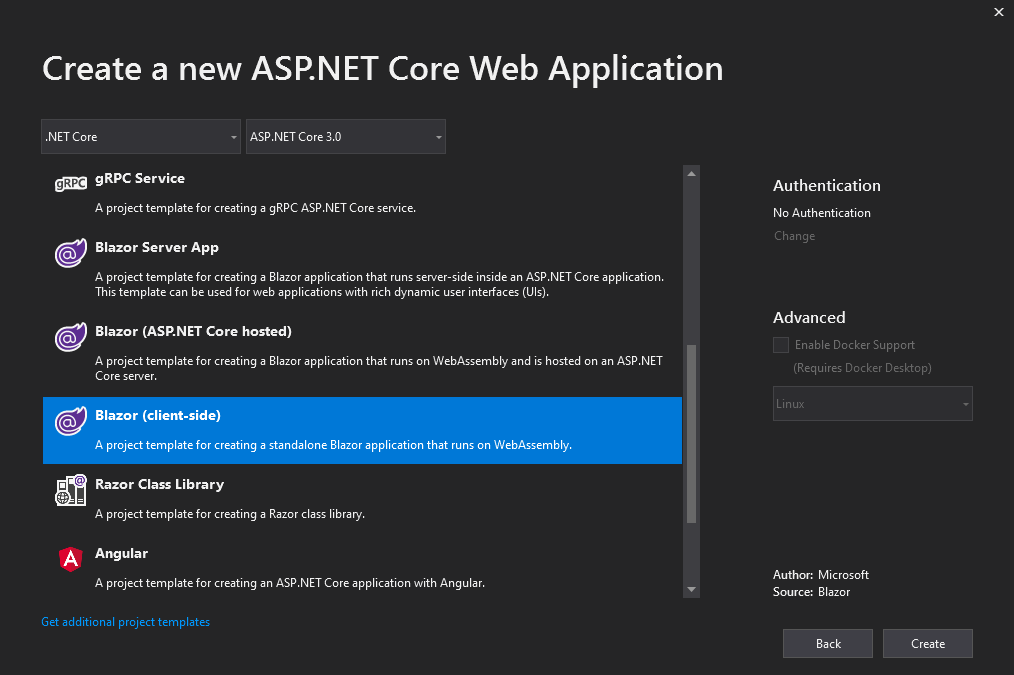
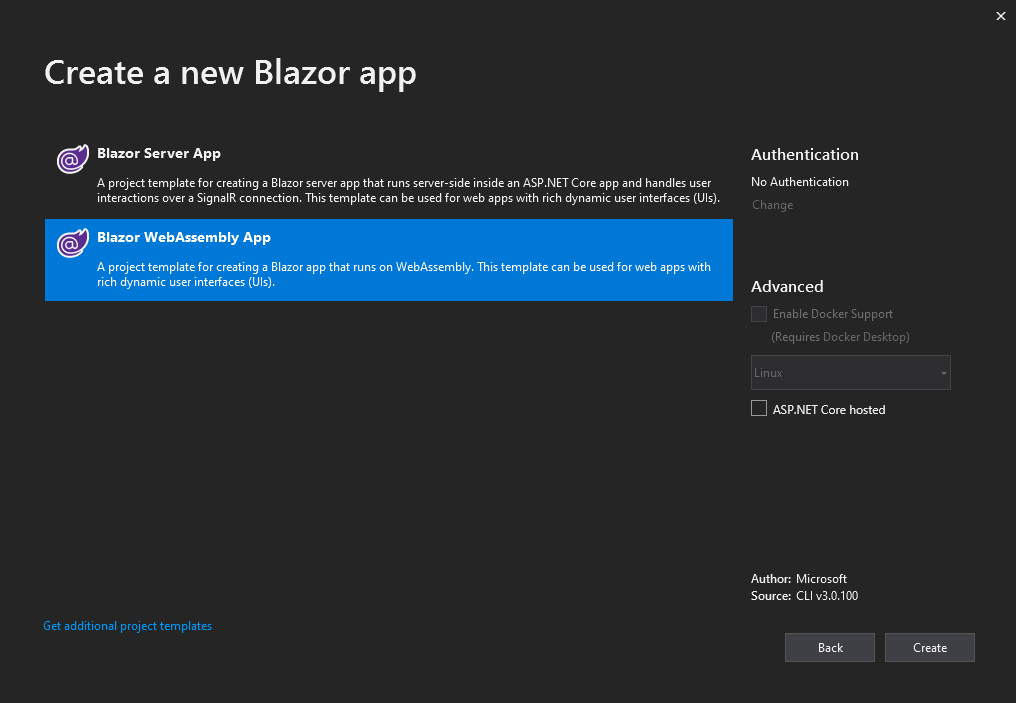
Update Blazor client instructions part

diff --git a/docs/10-blazor-client.md b/docs/10-blazor-client.md
@@ -4,7 +4,7 @@
 
 Blazor components are a new way to define encapsulated component. They can be shared between projects as NuGet packages and embedded into both ASP.NET Core server side applications as well as client side applications. Code-behind logic and event handlers are written in C#. Third-party vendors like [Telerik](https://www.telerik.com/blazor-ui), [DevExpress](https://www.devexpress.com/blazor/) and [Syncfusion](https://www.syncfusion.com/blazor-components) are already providing their own set of Blazor components.
 
-Like mentioned above, Blazor components can be hosted on both client and server. What that means is that client-side Blazor enables running C# / .NET code in the browser. This is possible using WebAssembly standard. It means that you can write client-side web applications in .NET, without the need for JavaScript or frameworks like Aurelia, React, Vue or Angular. It's basically a replacement for them.
+Like mentioned above, Blazor components can be hosted on both client and server. What that means is that Blazor WebAssembly (client-side) enables running C# / .NET code in the browser. This is possible using WebAssembly standard. It means that you can write client-side web applications in .NET, without the need for JavaScript or frameworks like Aurelia, React, Vue or Angular. It's basically a replacement for them.
 
 ## Introduction to Blazor
 
@@ -12,7 +12,7 @@ An introduction to Blazor is done in form of PowerPoint presentation. It explain
 
 ## Creating client-side Blazor project
 
-Add new project to your `TimeTracker` solution, named `TimeTracker.Client`. Select *Blazor (client-side)* template.
+Add new Blazor App project to your `TimeTracker` solution, named `TimeTracker.Client`. Select *Blazor WebAssembly App* template.
 
 ![New Blazor client-side project](images/vs-new-blazor-application.png)
 
@@ -32,7 +32,9 @@ Note that the following implementation might change a lot in future versions of 
 
 Let's modify the Blazor client app to support authentication. The initial support for auth has been added in the preview 6 version, just on time for this workshop, so we'll use that. Most of the code that follows has been taken from excellent [NDC Oslo presentation](https://www.youtube.com/watch?v=uW-Kk7Qpv5U) by [Steve Sanderson](https://twitter.com/stevensanderson). The presentation samples can be found [on GitHub](https://github.com/SteveSandersonMS/presentation-2019-06-NDCOslo/).
 
-The first thing we need is to implement `AuthenticationStateProvider` that is capable of handling tokens in local storage. We'll add it to `Security` folder.
+To support auth, we'll need to install `Microsoft.AspNetCore.Components.Authorization` NuGet package to our `TimeTracker.Client` project. Do that now.
+
+The first thing we need to implement is `AuthenticationStateProvider` that is capable of handling tokens in local storage. We'll add it to `Security` folder.
 
 ```c#
 public class TokenAuthenticationStateProvider : AuthenticationStateProvider
@@ -84,8 +86,12 @@ public class TokenAuthenticationStateProvider : AuthenticationStateProvider
     {
         switch (base64.Length % 4)
         {
-            case 2: base64 += "=="; break;
-            case 3: base64 += "="; break;
+            case 2:
+                base64 += "==";
+                break;
+            case 3:
+                base64 += "=";
+                break;
         }
         return Convert.FromBase64String(base64);
     }
@@ -131,27 +137,35 @@ public void ConfigureServices(IServiceCollection services)
 Next step is to modify our `App.razor` file to enable cascading usage of the authentication state provider and to define information to display for non-authorized users.
 
 ```razor
-<CascadingAuthenticationState>
-    <Router AppAssembly="typeof(Program).Assembly">
-        <NotFoundContent>
-            <p>Sorry, there's nothing at this address.</p>
-        </NotFoundContent>
-        <NotAuthorizedContent>
-            <h1>Access denied</h1>
-            <p>Only logged-in users can access the TimeTracker client app.</p>
-        </NotAuthorizedContent>
-        <AuthorizingContent>
-            Logging in...
-        </AuthorizingContent>
-    </Router>
-</CascadingAuthenticationState>
+<Router AppAssembly="@typeof(Program).Assembly">
+    <Found Context="routeData">
+        <AuthorizeRouteView RouteData="@routeData" DefaultLayout="@typeof(MainLayout)">
+            <NotAuthorized>
+                <h1>Access denied</h1>
+                <p>Only logged-in users can access the TimeTracker client app.</p>
+            </NotAuthorized>
+            <Authorizing>
+                Logging in...
+            </Authorizing>
+        </AuthorizeRouteView>
+    </Found>
+    <NotFound>
+        <CascadingAuthenticationState>
+            <LayoutView Layout="@typeof(MainLayout)">
+                <h1>Page not found</h1>
+                <p>Sorry, there's nothing at this address.</p>
+            </LayoutView>
+        </CascadingAuthenticationState>
+    </NotFound>
+</Router>
 ```
 
-Also modify the main `_Imports.razor` file, to add the following lines:
+You'll get some squiggly lines in Visual Studio for the above code. To fix it, modify the main `_Imports.razor` file, to add the following lines:
 
 ```razor
 @using System.Net.Http.Headers
 @using Microsoft.AspNetCore.Authorization
+@using Microsoft.AspNetCore.Components.Authorization
 ```
 
 Our `TokenAuthenticationStateProvider` above had the call to `blazorLocalStorage` helper which we currently don't have defined. Let's fix that. Add the `wwwroot/scripts/localStorage.js` file with this content:
@@ -175,7 +189,7 @@ To test how it works when users are not authenticated, let's protect some pages 
 @attribute [Authorize]
 ```
 
-If you try to navigate to this pages now, you'll get the *Access denied* message we defined above in `App.razor` file.
+If you try to navigate to this pages now, you'll get the *Access denied* message that we defined above in `App.razor` file.
 
 ### Adding login capability
 
@@ -245,7 +259,7 @@ Before implementing the login page, it would be good to define all the settings 
 public static class Config
 {
     public const string ApiRootUrl = "https://localhost:44383/";
-    public const string ApiResourceUrl = ApiRootUrl + "api/";
+    public const string ApiResourceUrl = ApiRootUrl + "api/v2/";
     public const string TokenUrl = ApiRootUrl + "get-token";
 }
 ```
@@ -287,6 +301,12 @@ public class ApiService
 
 This service uses `HttpClient` and our `TokenAuthenticationServiceProvider` as dependencies and will implement methods for calling the API. For now, there is a generic `GetJsonApi` method that creates an HTTP GET request and returns deserialized JSON response. The token is retrieved either from `token` parameter (e.g. when calling from login page) or from `TokenAuthenticationServiceProvider.GetTokenAsync()` and used as Bearer token for the request. Root URLs are read from `Config` class.
 
+In order to use this service as a dependency we need to register it for dependency injection. Add the following line to `Startup.ConfigureServices`:
+
+```c#
+services.AddScoped<ApiService>();
+```
+
 Finally, let's implement our `Login.razor` page. This is how it should look like:
 
 ![Login page](images/blazor-login.png)
@@ -295,14 +315,13 @@ Instead of regular username / password pair, we'll just use user ID - it's a dem
 
 ```razor
 @page "/login"
-@using Microsoft.AspNetCore.Components
 @using TimeTracker.Client.Models
 @using TimeTracker.Client.Security
 @using TimeTracker.Client.Services
 @inject HttpClient Http
 @inject ApiService ApiService
 @inject TokenAuthenticationStateProvider AuthStateProvider
-@inject IUriHelper UriHelper
+@inject NavigationManager NavigationManager
 
 <h1>Login</h1>
 
@@ -354,7 +373,7 @@ Instead of regular username / password pair, we'll just use user ID - it's a dem
 
             await AuthStateProvider.SetTokenAndUserAsync(token, user);
 
-            UriHelper.NavigateTo("/");
+            NavigationManager.NavigateTo("/");
         }
         catch (Exception ex)
         {
@@ -368,7 +387,7 @@ Looks rather simple, doesn't it? We are using `<EditForm>` component which point
 
 `LogIn` method is containing the login logic. It creates a URL and makes a call to token endpoint. The token returned is used for loading the user with the given ID. If user is successfully retrieved, both token and user instance are saved locally using `TokenAuthenticationStateProvider.SetTokenAndUserAsync()`. After that, the user is redirected to home page.
 
-If any exception happens during token or user request, the exception message is retrieved and saved locally, and also bound to be displayed on a page as alert.
+If any exception happens during token or user request, the exception message is retrieved and saved locally, and also bound to be displayed on a page as an alert.
 
 ## Adding pages
 
@@ -555,6 +574,19 @@ The logic for navigating between pages is implemented in `Pager` component and w
 
 In the `Users.razor` code above, we are giving two parameters to the `Pager` component - `Model`, which is an instance of `PagedList<T>`, and `Loader`, which is a method that runs each time a link is clicked in the `Pager` component. This method accepts one parameter - `page`, which is a current page number, and must reload the list of items. In the code above, it loads a page of items from users.
 
+You can copy `PagedList<T>` from `TimeTracker` project models.
+
+```c#
+public class PagedList<T>
+{
+    public IEnumerable<T> Items { get; set; }
+    public int Page { get; set; }
+    public int PageSize { get; set; }
+    public int TotalCount { get; set; }
+    public int TotalPages => (int) Math.Ceiling((double) TotalCount / PageSize);
+}
+```
+
 *Note*: to test how pager works, try setting `pageSize` to `1` in the code above or creating more users later when we implement create functionality.
 
 ### Adding `Pager` component
@@ -562,7 +594,7 @@ In the `Users.razor` code above, we are giving two parameters to the `Pager` com
 Here's how the `Pager` component is implemented (it goes into `Shared` folder):
 
 ```razor
-typeparam T
+@typeparam T
 @using TimeTracker.Client.Models
 
 @if (Model != null)
@@ -645,13 +677,11 @@ We'll implement both create and update logic on the same page, to improve code r
 ```razor
 @page "/users/{id:long}/edit"
 @page "/users/add"
-@using System.ComponentModel
-@using Microsoft.AspNetCore.Components
 @using TimeTracker.Client.Models
 @using TimeTracker.Client.Services
 @attribute [Authorize]
 @inject ApiService ApiService
-@inject IUriHelper UriHelper
+@inject NavigationManager NavigationManager
 
 @if (Id == 0)
 {
@@ -725,7 +755,7 @@ else
 
         if (success)
         {
-            UriHelper.NavigateTo("/users");
+            NavigationManager.NavigateTo("/users");
         }
         else
         {
@@ -737,7 +767,7 @@ else
 
 Let's give it a closer look:
 - There are two page directives - `@page "/users/{id:long}/edit"` and `@page "/users/add"` - it's perfectly valid, one is for update and one for creating new user.
-- We are injecting `IUriHelper` for navigating away after successful save.
+- We are injecting `NavigationManager` for navigating away after successful save.
 - Different heading is displayed depending on whether we are creating new user or updating an existing one.
 - Main model of the page is `user` field of type `UserInputModel`.
 - We are using `OnValidateSubmit` parameter of `EditForm`, so `SaveUser` method is only called if validation is successful.
@@ -759,13 +789,11 @@ Let's give it a closer look:
 
 ```razor
 @page "/users/{id:long}/delete"
-@using System.ComponentModel
-@using Microsoft.AspNetCore.Components
 @using TimeTracker.Client.Models
 @using TimeTracker.Client.Services
 @attribute [Authorize]
 @inject ApiService ApiService
-@inject IUriHelper UriHelper
+@inject NavigationManager NavigationManager
 
 <h1>Delete user @(user == null ? string.Empty : user.Name)</h1>
 
@@ -799,7 +827,7 @@ Let's give it a closer look:
     {
         if (await ApiService.DeleteAsync($"users/{user.Id}"))
         {
-            UriHelper.NavigateTo("/users");
+            NavigationManager.NavigateTo("/users");
         }
         else
         {
@@ -833,6 +861,7 @@ To implement it, we need a hack since `InputSelect` component does not support n
 </div>
 
 <!-- Inside @code -->
+{
     [Parameter] public long Id { get; set; }
     private string clientId = string.Empty;
     private Lookup[] clients = new Lookup[] {};
@@ -886,7 +915,7 @@ To implement it, we need a hack since `InputSelect` component does not support n
 
         if (success)
         {
-            UriHelper.NavigateTo("/projects");
+            NavigationManager.NavigateTo("/projects");
         }
         else
         {

diff --git a/docs/speaker-notes.md b/docs/speaker-notes.md
@@ -223,7 +223,17 @@
 - Versioning
     - Talk about API versioning
     - Different versioning strategies
-    - Mention `Microsoft.AspNetCore.Mvc.Versioning`
+    - Install `Microsoft.AspNetCore.Mvc.Versioning` and  `Microsoft.AspNetCore.Mvc.Versioning.ApiExplorer` pre-release
+    - Create copy of controllers in `Controllers/V1`
+    - Update controller routes to include `/api/v{version:apiVersion}/`
+    - Add `[ApiVersion("...")]` attribute to controllers
+    - Update all `CreatedAtAction` method calls to include `version = "..."` in route parameters
+    - Create `ServiceCollectionExtensions.AddVersioning` method
+    - Refactor `AddOpenApi` method to support versioning - add `InitializeOpenApiDocumentOptions` private method
+    - Call `service.AddVersioning()` from `Startup.ConfigureServices`
+    - Test swagger UI output in browser
+    - Modify Postman collection - add new folder for versioned calls
+    - Fix integration tests in `UserApiTests` to include version number
 - Limiting
     - Create `LimitingMiddleware`
     - Add to `Startup`
@@ -249,7 +259,7 @@
         - `app.UseHealthChecksUI();`
         - `endpoints.MapHealthChecks("/health", new HealthCheckOptions { Predicate = _ => true, ResponseWriter = UIResponseWriter.WriteHealthCheckUIResponse });`
     - Add health check settings to `appsettings.json` file
-    - Browse `/healthchecks-ui` - broken in Preview 6
+    - Browse `/healthchecks-ui`
 - Mention Azure and third-party services for monitoring
 
 ## 10 Blazor client
@@ -260,6 +270,7 @@
 - Authentication
     - Mention that this is a preview of Blazor - future breaking changes are possible
     - Explain how we are simulating login
+    - Install `Microsoft.AspNetCore.Components.Authorization` NuGet package
     - Add `Models.UserModel` class
     - Create `Security.TokenAuthenticationStateProvider`
         - Explain what it does
@@ -268,7 +279,9 @@
     - Modify `App.razor` to add `<CascadingAuthenticationState>`
         - Explain
     - Modify the main `_Imports.razor`
+        - add `@using System.Net.Http.Headers`
         - add `@using Microsoft.AspNetCore.Authorization`
+        - add `@using Microsoft.AspNetCore.Components.Authorization`
     - Add `wwwroot/scripts/localStorage.js`
         - Include it in `wwwroot/index.html`
     - Add `@attribute [Authorize]` attribute to some pages
@@ -284,6 +297,7 @@
     - Add `Config` class to hold all the configuration constants (e.g. URLs)
     - Add `Services.ApiService` with `GetAsync` method
         - Explain `HttpClient` and how we get token
+        - Register `ApiService` in `Startup` - `services.AddScoped<ApiService>();`
     - Implement `Login.razor` page
         - Explain `EditForm` component and its `Model` property
         - Explain buttons and `onclick` handlers

diff --git a/docs/99-resources.md b/docs/99-resources.md
@@ -24,5 +24,5 @@ This is a list of APIs you can use as samples:
 ## Samples
 
 - [REST samples and video course](https://github.com/nbarbettini/BeautifulRestApi) by Nate Barbettini
-- [Practical ASP.NET Core samples](https://github.com/dodyg/practical-aspnetcore) by Dody Gunawinata - 250+ ASP.NET Core samples
-- [My sample for production-ready APIs talk](https://github.com/miroslavpopovic/production-ready-apis-sample-3.0)
+- [Practical ASP.NET Core samples](https://github.com/dodyg/practical-aspnetcore) by Dody Gunawinata - 300+ ASP.NET Core samples
+- [My sample for production-ready APIs talk](https://github.com/miroslavpopovic/production-ready-apis-sample-3)
